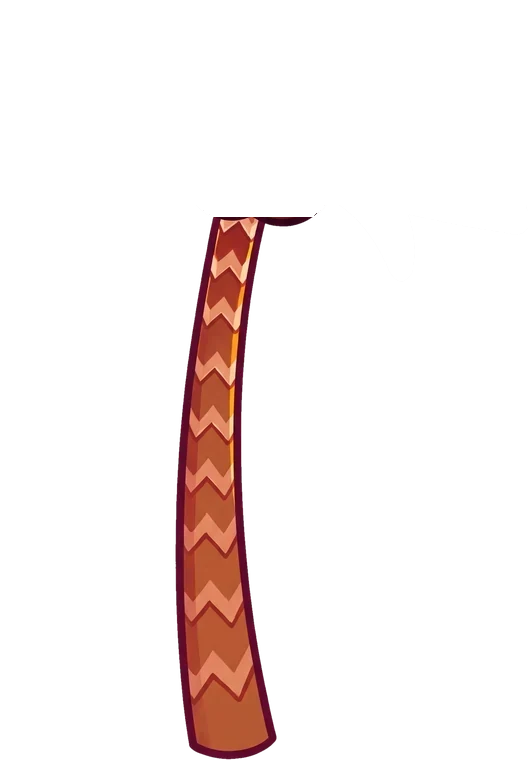
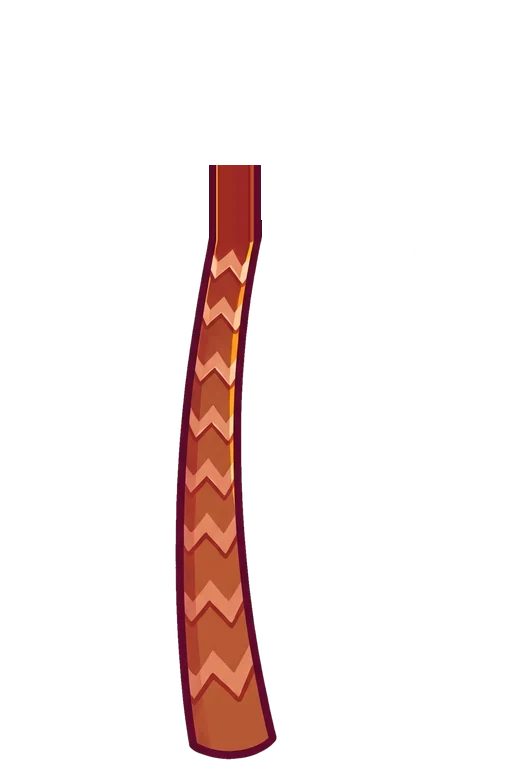
Palm trunk fixed for real, coconuts sway whole, desktop reels 13-18% bigger, no label under the spin button

Changed region(s): [[0.3939, 0.2118, 0.5758, 0.3329]]

diff --git a/index.html b/index.html
@@ -1383,9 +1383,9 @@ header.slotbar{justify-content:space-between!important;padding:6px 12px!importan
 
 /* ===== desktop and wide (the big-slot layout, 900px+ and at least 4:3) ===== */
 @media (min-width:900px) and (min-aspect-ratio:4/3){
-  /* board a little shorter so the bigger sign and spin button clear each other; narrow enough to leave the plank room */
-  .machine .stagewrap{top:-24px!important}
-  .machine .stage{height:calc(100dvh - 392px)!important;width:min(70vw,calc((100dvh - 392px) * 1.62),1760px,calc(100vw - var(--fw) * 1.12 - 2 * var(--bw) - 40px))!important;max-width:none!important}
+  /* board as big as the space allows: the TOTAL WIN sign hangs left of centre so it never stacks on the spin button */
+  .machine .stagewrap{top:-22px!important}
+  .machine .stage{height:calc(100dvh - 325px)!important;width:min(70vw,calc((100dvh - 325px) * 1.62),1760px,calc(100vw - var(--fw) * 1.12 - 2 * var(--bw) - 40px))!important;max-width:none!important}
   .machine .stagewrap{--bw:clamp(110px,11vw,180px)}
   .machine .stagewrap > #buybtn{width:var(--bw)!important;padding-top:calc(var(--bw) * .05)!important;font-size:clamp(12px,1.15vw,18px)!important}
   /* the plank stands just left of the left post, a third of the way down */
@@ -1468,6 +1468,10 @@ header.slotbar{justify-content:space-between!important;padding:6px 12px!importan
 /* TOTAL WIN ropes: the same drawn rope as the frame's corner lashings (img/rope.webp, knot at the sign end) */
 .machine .stage > .winrow > #totalbox::before{left:12%!important;right:12%!important;top:-40px!important;height:46px!important;filter:none!important;
   background:url("img/rope.webp?v=f927cf27") left bottom/13px 100% no-repeat,url("img/rope.webp?v=f927cf27") right bottom/13px 100% no-repeat!important}
+/* desktop: the TOTAL WIN sign hangs left of centre (clear of the spin button rising out of the bar below) */
+@media (min-width:900px) and (min-aspect-ratio:4/3){ .machine .stage > .winrow{left:27%!important} }
+/* the mode name under the spin button is gone (the MODE button already says it) */
+.mhud #spinbtn[data-label]::after{display:none!important}
 
 /* ---------- spins left (extras.js): gold ring, dark wood, big number ---------- */
 #mspins{position:fixed;z-index:48;width:clamp(70px,9vw,96px);aspect-ratio:1/1;border-radius:50%;display:none;flex-direction:column;align-items:center;justify-content:center;
@@ -1481,7 +1485,7 @@ header.slotbar{justify-content:space-between!important;padding:6px 12px!importan
 @keyframes sbump{0%{transform:scale(1.5)}100%{transform:none}}
 
 </style>
-<script>window.MANGO_IMG_V = {"bg-day":"d919a75b","bg-sunset":"4de74376","buy-plank":"602240fd","frame-driftwood":"76ee142b","H1":"02610a3c","H2":"9986ec72","H3":"dd03fec8","H4":"16055f06","L1":"79847f20","L2":"deade74a","L3":"dabb402b","L4":"ec24535d","L5":"ad8186b4","rope":"f927cf27","S1":"f0935078","sc-bush-day":"cbded6bf","sc-bush-sunset":"81a88854","sc-chair-day":"4ddd96b6","sc-chair-sunset":"31c834a6","sc-crab":"8c270de0","sc-dolphin":"3b0b90c2","sc-palmL-crown":"00880cf0","sc-palmL-trunk":"3bc60c90","sc-palmL":"dcb46604","sc-palmR-crown":"8b7e31b5","sc-palmR-trunk":"e3fd67fc","sc-palmR":"037041cd","sc-plate-day":"6a3c3539","sc-plate-sunset":"9048935b","sc-splash":"fd32b9b1","sc-water-day":"16468e92","sc-water-sunset":"de08cee6","sc-whale":"6d2091dd","seaweed":"1807e492","surf-tricks":"428d180b","W":"6c3e2365","wild-rider":"c2212150","wild-wave":"f24ca5f5","wood-panel":"3699864c"};</script>
+<script>window.MANGO_IMG_V = {"bg-day":"d919a75b","bg-sunset":"4de74376","buy-plank":"602240fd","frame-driftwood":"76ee142b","H1":"02610a3c","H2":"9986ec72","H3":"dd03fec8","H4":"16055f06","L1":"79847f20","L2":"deade74a","L3":"dabb402b","L4":"ec24535d","L5":"ad8186b4","rope":"f927cf27","S1":"f0935078","sc-bush-day":"88dde9d2","sc-bush-sunset":"4527095d","sc-chair-day":"4ddd96b6","sc-chair-sunset":"31c834a6","sc-crab":"8c270de0","sc-dolphin":"3b0b90c2","sc-palmL-crown":"c5388590","sc-palmL-trunk":"ba262adb","sc-palmL":"dcb46604","sc-palmR-crown":"1f9a1621","sc-palmR-trunk":"9dd09f31","sc-palmR":"037041cd","sc-plate-day":"6a3c3539","sc-plate-sunset":"9048935b","sc-splash":"fd32b9b1","sc-water-day":"16468e92","sc-water-sunset":"de08cee6","sc-whale":"6d2091dd","seaweed":"1807e492","surf-tricks":"428d180b","W":"6c3e2365","wild-rider":"c2212150","wild-wave":"f24ca5f5","wood-panel":"3699864c"};</script>
 <script>
 /*
  * Mango Surf audio - synthesized Web Audio module (play money learning project).
